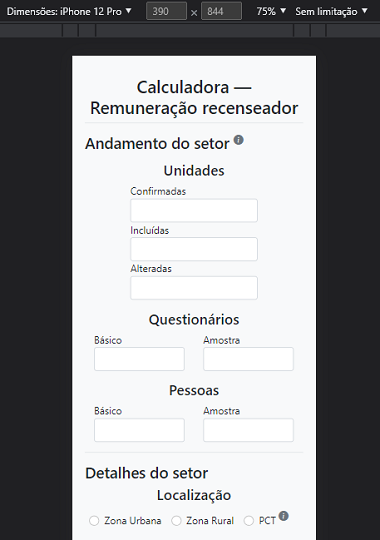
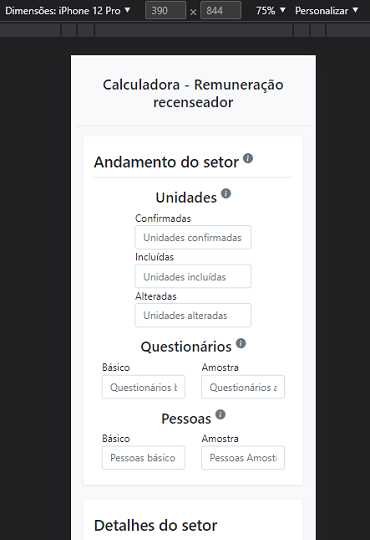
Muda um pouco o visual

diff --git a/index.html b/index.html
@@ -18,142 +18,183 @@
           name="og:description"/>
 </head>
 <body class="pt-3 px-2 d-flex flex-column min-vh-100 bg-light">
-    <main class="container my-3">
-        <h1 class="border-bottom pb-2 text-center">Calculadora — Remuneração recenseador</h1>
-        <h2 class="mt-3">
-            Andamento do setor
-            <sup class="text-muted fs-6" data-bs-placement="right" data-bs-toggle="tooltip"
-                                                 title="Acesse a aba Relatórios > Andamento do Setor em seu DMC.">
-            <i class="bi bi-info-circle-fill"></i>
-        </sup></h2>
+    <header class="d-flex justify-content-center py-3 mb-3 border-bottom">
+        <h1 class="fs-3 text-center">Calculadora - Remuneração recenseador</h1>
+    </header>
+    <main class="container mb-3">
         <form id="calculator" novalidate>
-            <h3 class="mt-3 text-center">Unidades</h3>
-            <div class="d-sm-flex justify-content-around col-7 mx-auto col-sm-auto col-lg-9">
-                <div class="col-sm-3">
-                    <label for="units-confirmed">Confirmadas</label>
-                    <input type="number" class="form-control" id="units-confirmed" min="0" required>
-                    <div class="invalid-feedback text-center">Este campo é obrigatório!</div>
-                </div>
-                <div class="col-sm-3">
-                    <label for="units-included">Incluídas</label>
-                    <input type="number" class="form-control" id="units-included" min="0" required>
-                    <div class="invalid-feedback text-center">Este campo é obrigatório!</div>
-                </div>
-                <div class="col-sm-3">
-                    <label for="units-changed">Alteradas</label>
-                    <input type="number" class="form-control" id="units-changed" min="0" required>
-                    <div class="invalid-feedback text-center">Este campo é obrigatório!</div>
-                </div>
-            </div>
-            <h3 class="mt-3 text-center">Questionários</h3>
-            <div class="d-flex justify-content-around col-12 col-sm-10 col-md-8 col-lg-6 mx-auto">
-                <div class="col-5">
-                    <label for="quiz-basic">Básico</label>
-                    <input type="number" class="form-control" id="quiz-basic" min="0" required>
-                    <div class="invalid-feedback text-center">Este campo é obrigatório!</div>
-                </div>
-                <div class="col-5">
-                    <label for="quiz-sample">Amostra</label>
-                    <input type="number" class="form-control" id="quiz-sample" min="0" required>
-                    <div class="invalid-feedback text-center">Este campo é obrigatório!</div>
-                </div>
-            </div>
-            <h3 class="mt-3 text-center">Pessoas</h3>
-            <div class="d-flex justify-content-around col-12 col-sm-10 col-md-8 col-lg-6 mx-auto">
-                <div class="col-5">
-                    <label for="people-basic">Básico</label>
-                    <input type="number" class="form-control" id="people-basic" min="0" required>
-                    <div class="invalid-feedback text-center">Este campo é obrigatório!</div>
-                </div>
-                <div class="col-5">
-                    <label for="people-sample">Amostra</label>
-                    <input type="number" class="form-control" id="people-sample" min="0" required>
-                    <div class="invalid-feedback text-center">Este campo é obrigatório!</div>
-                </div>
-            </div>
-            <h2 class="mt-3 border-top pt-3">Detalhes do setor</h2>
-            <h3 class="text-center mb-3">Localização</h3>
-            <div class="d-flex justify-content-center">
-                <div class="form-check form-check-inline">
-                    <input type="radio" name="locale" id="locale-urban" class="form-check-input" value="urban" required>
-                    <label for="locale-urban" class="form-check-label">Zona Urbana</label>
-                </div>
-                <div class="form-check form-check-inline">
-                    <input type="radio" name="locale" id="locale-rural" class="form-check-input" value="rural" required>
-                    <label for="locale-rural" class="form-check-label">Zona Rural</label>
-                </div>
-                <div class="form-check form-check-inline">
-                    <input type="radio" name="locale" id="locale-pct" class="form-check-input" value="rural" required>
-                    <label for="locale-pct" class="form-check-label">
-                        PCT
-                        <sup class="text-muted fs-6" data-bs-placement="right" data-bs-toggle="tooltip"
-                             title="Povos e comunidades tradicionais (Indígenas e Quilombolas).">
+                <div class="shadow-sm rounded bg-white px-3 py-4">
+                    <div class="title pb-1 border-bottom">
+                        <h2>
+                            Andamento do setor
+                            <sup class="text-muted fs-6" data-bs-placement="right" data-bs-toggle="tooltip"
+                                 title='Acesse a aba "Relatórios" -> "Andamento do setor" em seu DMC.'>
+                                <i class="bi bi-info-circle-fill"></i>
+                            </sup>
+                        </h2>
+                    </div>
+                    <div class="content">
+                        <h3 class="mt-3 text-center">
+                            Unidades
+                            <sup class="text-muted fs-6" data-bs-placement="right" data-bs-toggle="tooltip"
+                                 title="Andamento do setor -> 3 Resumo Unidades">
                             <i class="bi bi-info-circle-fill"></i>
-                        </sup>
-                    </label>
+                            </sup>
+                        </h3>
+                        <div class="d-sm-flex justify-content-around col-7 mx-auto col-sm-auto col-lg-9">
+                            <div class="col-sm-3">
+                                <label for="units-confirmed">Confirmadas</label>
+                                <input type="number" class="form-control" id="units-confirmed" min="0" required
+                                       placeholder="Unidades confirmadas">
+                                <div class="invalid-feedback text-center">Este campo é obrigatório!</div>
+                            </div>
+                            <div class="col-sm-3">
+                                <label for="units-included">Incluídas</label>
+                                <input type="number" class="form-control" id="units-included" min="0" required
+                                       placeholder="Unidades incluídas">
+                                <div class="invalid-feedback text-center">Este campo é obrigatório!</div>
+                            </div>
+                            <div class="col-sm-3">
+                                <label for="units-changed">Alteradas</label>
+                                <input type="number" class="form-control" id="units-changed" min="0" required
+                                       placeholder="Unidades alteradas">
+                                <div class="invalid-feedback text-center">Este campo é obrigatório!</div>
+                            </div>
+                        </div>
+                        <h3 class="mt-3 text-center">
+                            Questionários
+                            <sup class="text-muted fs-6" data-bs-placement="right" data-bs-toggle="tooltip"
+                                 title='Andamento do setor -> 8 Total Questionários'>
+                                <i class="bi bi-info-circle-fill"></i>
+                            </sup>
+                        </h3>
+                        <div class="d-flex justify-content-around col-12 col-sm-10 col-md-8 col-lg-6 mx-auto">
+                            <div class="col-5">
+                                <label for="quiz-basic">Básico</label>
+                                <input type="number" class="form-control" id="quiz-basic" min="0" required
+                                       placeholder="Questionários básicos">
+                                <div class="invalid-feedback text-center">Este campo é obrigatório!</div>
+                            </div>
+                            <div class="col-5">
+                                <label for="quiz-sample">Amostra</label>
+                                <input type="number" class="form-control" id="quiz-sample" min="0" required
+                                       placeholder="Questionários amostra">
+                                <div class="invalid-feedback text-center">Este campo é obrigatório!</div>
+                            </div>
+                        </div>
+                        <h3 class="mt-3 text-center">
+                            Pessoas
+                            <sup class="text-muted fs-6" data-bs-placement="right" data-bs-toggle="tooltip"
+                                 title='Andamento do setor -> 9 Resumo De Pessoas Recenseadas'>
+                                <i class="bi bi-info-circle-fill"></i>
+                            </sup>
+                        </h3>
+                        <div class="d-flex justify-content-around col-12 col-sm-10 col-md-8 col-lg-6 mx-auto">
+                            <div class="col-5">
+                                <label for="people-basic">Básico</label>
+                                <input type="number" class="form-control" id="people-basic" min="0" required
+                                       placeholder="Pessoas básico">
+                                <div class="invalid-feedback text-center">Este campo é obrigatório!</div>
+                            </div>
+                            <div class="col-5">
+                                <label for="people-sample">Amostra</label>
+                                <input type="number" class="form-control" id="people-sample" min="0" required
+                                       placeholder="Pessoas Amostra">
+                                <div class="invalid-feedback text-center">Este campo é obrigatório!</div>
+                            </div>
+                        </div>
+                    </div>
                 </div>
-            </div>
-            <h3 class="text-center my-3">Taxa do setor
-                <sup class="text-muted fs-6" data-bs-placement="right" data-bs-toggle="tooltip"
-                     title="Você consegue essa informação com o seu ACS ou ACM.">
-                <i class="bi bi-info-circle-fill"></i>
-                </sup>
-            </h3>
-            <div class="d-flex justify-content-center">
-                <div class="form-check form-check-inline">
-                    <input type="radio" name="taxe" id="taxe-1" class="form-check-input" value=1 required>
-                    <label for="taxe-1" class="form-check-label">1</label>
+                <div class="shadow-sm rounded bg-white px-3 py-4 mt-4">
+                    <div class="title pb-1 border-bottom">
+                        <h2>Detalhes do setor</h2>
+                    </div>
+                    <div class="content">
+                        <h3 class="text-center mt-3 mb-0">Localização</h3>
+                        <div class="d-flex justify-content-center mt-3">
+                            <div class="form-check form-check-inline">
+                                <input type="radio" name="locale" id="locale-urban" class="form-check-input" value="urban" required>
+                                <label for="locale-urban" class="form-check-label">Urbano</label>
+                            </div>
+                            <div class="form-check form-check-inline">
+                                <input type="radio" name="locale" id="locale-rural" class="form-check-input" value="rural" required>
+                                <label for="locale-rural" class="form-check-label">Rural ou PCT
+                                    <sup class="text-muted fs-6" data-bs-placement="right" data-bs-toggle="tooltip"
+                                         title="Povos e Comunidades Tradicionais (aldeias indígenas e comunidades quilombolas).">
+                                        <i class="bi bi-info-circle-fill"></i>
+                                    </sup>
+                                </label>
+                            </div>
+                        </div>
+                        <h3 class="text-center my-3">Taxa do setor
+                            <sup class="text-muted fs-6" data-bs-placement="right" data-bs-toggle="tooltip"
+                                 title="Você consegue essa informação com o seu ACS ou ACM.">
+                            <i class="bi bi-info-circle-fill"></i>
+                            </sup>
+                        </h3>
+                        <div class="d-flex justify-content-center">
+                            <div class="form-check form-check-inline">
+                                <input type="radio" name="taxe" id="taxe-1" class="form-check-input" value=1 required>
+                                <label for="taxe-1" class="form-check-label">1</label>
+                            </div>
+                            <div class="form-check form-check-inline">
+                                <input type="radio" name="taxe" id="taxe-2" class="form-check-input" value=2 required>
+                                <label for="taxe-2" class="form-check-label">2</label>
+                            </div>
+                            <div class="form-check form-check-inline">
+                                <input type="radio" name="taxe" id="taxe-3" class="form-check-input" value=3 required>
+                                <label for="taxe-3" class="form-check-label">3</label>
+                            </div>
+                            <div class="form-check form-check-inline">
+                                <input type="radio" name="taxe" id="taxe-4" class="form-check-input" value=4 required>
+                                <label for="taxe-4" class="form-check-label">4</label>
+                            </div>
+                            <div class="form-check form-check-inline">
+                                <input type="radio" name="taxe" id="taxe-5" class="form-check-input" value=5 required>
+                                <label for="taxe-5" class="form-check-label">5</label>
+                            </div>
+                        </div>
+                        <div class="d-flex justify-content-center mt-3">
+                            <div class="form-check form-check-inline">
+                                <input type="radio" name="taxe" id="taxe-6" class="form-check-input" value=6 required>
+                                <label for="taxe-6" class="form-check-label">6</label>
+                            </div>
+                            <div class="form-check form-check-inline">
+                                <input type="radio" name="taxe" id="taxe-7" class="form-check-input" value=7 required>
+                                <label for="taxe-7" class="form-check-label">7</label>
+                            </div>
+                            <div class="form-check form-check-inline">
+                                <input type="radio" name="taxe" id="taxe-8" class="form-check-input" value=8 required>
+                                <label for="taxe-8" class="form-check-label">8</label>
+                            </div>
+                            <div class="form-check form-check-inline">
+                                <input type="radio" name="taxe" id="taxe-9" class="form-check-input" value=9 required>
+                                <label for="taxe-9" class="form-check-label">9</label>
+                            </div>
+                            <div class="form-check form-check-inline">
+                                <input type="radio" name="taxe" id="taxe-10" class="form-check-input" value=10 required>
+                                <label for="taxe-10" class="form-check-label">10</label>
+                            </div>
+                            <div class="form-check form-check-inline">
+                                <input type="radio" name="taxe" id="taxe-11" class="form-check-input" value=11 required>
+                                <label for="taxe-11" class="form-check-label">11</label>
+                            </div>
+                        </div>
+                    </div>
                 </div>
-                <div class="form-check form-check-inline">
-                    <input type="radio" name="taxe" id="taxe-2" class="form-check-input" value=2 required>
-                    <label for="taxe-2" class="form-check-label">2</label>
+                <div class="shadow-sm rounded bg-white px-3 py-4 mt-4">
+                    <div class="title pb-1 border-bottom">
+                        <h2>Benefícios</h2>
+                    </div>
+                    <div class="content">
+                        <h3 class="text-center my-3">Salário família</h3>
+                        <div class="col-5 mx-auto">
+                            <label for="number-sons">Filhos até 14 anos</label>
+                            <input type="number" class="form-control" id="number-sons" min="0" value="0" required>
+                        </div>
+                    </div>
                 </div>
-                <div class="form-check form-check-inline">
-                    <input type="radio" name="taxe" id="taxe-3" class="form-check-input" value=3 required>
-                    <label for="taxe-3" class="form-check-label">3</label>
-                </div>
-                <div class="form-check form-check-inline">
-                    <input type="radio" name="taxe" id="taxe-4" class="form-check-input" value=4 required>
-                    <label for="taxe-4" class="form-check-label">4</label>
-                </div>
-                <div class="form-check form-check-inline">
-                    <input type="radio" name="taxe" id="taxe-5" class="form-check-input" value=5 required>
-                    <label for="taxe-5" class="form-check-label">5</label>
-                </div>
-            </div>
-            <div class="d-flex justify-content-center mt-3">
-                <div class="form-check form-check-inline">
-                    <input type="radio" name="taxe" id="taxe-6" class="form-check-input" value=6 required>
-                    <label for="taxe-6" class="form-check-label">6</label>
-                </div>
-                <div class="form-check form-check-inline">
-                    <input type="radio" name="taxe" id="taxe-7" class="form-check-input" value=7 required>
-                    <label for="taxe-7" class="form-check-label">7</label>
-                </div>
-                <div class="form-check form-check-inline">
-                    <input type="radio" name="taxe" id="taxe-8" class="form-check-input" value=8 required>
-                    <label for="taxe-8" class="form-check-label">8</label>
-                </div>
-                <div class="form-check form-check-inline">
-                    <input type="radio" name="taxe" id="taxe-9" class="form-check-input" value=9 required>
-                    <label for="taxe-9" class="form-check-label">9</label>
-                </div>
-                <div class="form-check form-check-inline">
-                    <input type="radio" name="taxe" id="taxe-10" class="form-check-input" value=10 required>
-                    <label for="taxe-10" class="form-check-label">10</label>
-                </div>
-                <div class="form-check form-check-inline">
-                    <input type="radio" name="taxe" id="taxe-11" class="form-check-input" value=11 required>
-                    <label for="taxe-11" class="form-check-label">11</label>
-                </div>
-            </div>
-            <h2 class="mt-3 border-top pt-3">Benefícios</h2>
-            <h3 class="text-center my-3">Salário família</h3>
-            <div class="col-5 mx-auto">
-                <label for="number-sons">Nº de filhos até 14 anos</label>
-                <input type="number" class="form-control" id="number-sons" min="0" value="0" required>
-            </div>
-            <div class="row border-top mt-4 pt-4 d-none" id="income">
+            <div class="row mt-4 pt-4 d-none" id="income">
                 <h3 class="mb-3">A receber</h3>
                 <ul class="list-group mb-3">
                     <li class="list-group-item d-flex justify-content-between lh-sm">
@@ -209,8 +250,25 @@
             </div>
         </form>
     </main>
-    <footer class="container-fluid border-top text-center p-3 fw-light mt-auto">
-        &copy; 2022 - Leone Oliveira
+    <footer class="container-fluid border-top text-center pt-3 fw-light mt-auto">
+        <div>
+            &copy; 2022 - Leone Oliveira
+        </div>
+        <ul class="col-6 col-md-4 col-xl-3 mx-auto d-flex list-unstyled justify-content-around mt-3">
+            <li>
+                <a class="text-reset text-decoration-none" href="https://github.com/leonetecbr/calculadora-recenseador-ibge">
+                    <i class="bi bi-github"></i>
+                </a>
+            </li>
+            <li data-bs-placement="right" data-bs-toggle="popover" title="Contribuir" data-bs-content="Esta é uma calculadora gratuita e sem anúncios, caso queira contribuir com o projeto pode mandar qualquer valor para a seguinte chave PIX: pix@leone.tec.br">
+                <i class="bi bi-coin"></i>
+            </li>
+            <li>
+                <a class="text-reset text-decoration-none" href="https://www.linkedin.com/in/leonetecbr/">
+                    <i class="bi bi-linkedin"></i>
+                </a>
+            </li>
+        </ul>
     </footer>
     <script src="/apps/ibge/js/jquery.min.js"></script>
     <script src="/apps/ibge/js/bootstrap.bundle.min.js"></script>

diff --git a/js/app.min.js b/js/app.min.js
@@ -1,1 +1,1 @@
-const tooltipTriggerList=[].slice.call(document.querySelectorAll('[data-bs-toggle="tooltip"]'));tooltipTriggerList.map(function(a){return new bootstrap.Tooltip(a)});let taxes={1:{urban:{unit:.51,basic:{people:.9,quiz:1.21},sample:{people:1.51,quiz:1.41}},rural:{unit:.56,basic:{people:1.01,quiz:1.34},sample:{people:1.67,quiz:1.57}}},2:{urban:{unit:.56,basic:{people:1.01,quiz:1.34},sample:{people:1.67,quiz:1.57}},rural:{unit:.62,basic:{people:1.1,quiz:1.46},sample:{people:1.83,quiz:1.7}}},3:{urban:{unit:.62,basic:{people:1.1,quiz:1.46},sample:{people:1.83,quiz:1.7}},rural:{unit:.69,basic:{people:1.21,quiz:1.61},sample:{people:2.01,quiz:1.89}}},4:{urban:{unit:.69,basic:{people:1.21,quiz:1.61},sample:{people:2.01,quiz:1.89}},rural:{unit:.75,basic:{people:1.33,quiz:1.76},sample:{people:2.21,quiz:2.07}}},5:{urban:{unit:.75,basic:{people:1.33,quiz:1.76},sample:{people:2.21,quiz:2.07}},rural:{unit:.82,basic:{people:1.46,quiz:1.94},sample:{people:2.45,quiz:2.28}}},6:{urban:{unit:.82,basic:{people:1.46,quiz:1.94},sample:{people:2.45,quiz:2.28}},rural:{unit:.9,basic:{people:1.6,quiz:2.14},sample:{people:2.68,quiz:2.51}}},7:{urban:{unit:.9,basic:{people:1.6,quiz:2.14},sample:{people:2.68,quiz:2.51}},rural:{unit:1,basic:{people:1.76,quiz:2.36},sample:{people:2.94,quiz:2.76}}},8:{urban:{unit:1,basic:{people:1.94,quiz:2.6},sample:{people:3.25,quiz:3.03}},rural:{unit:1.11,basic:{people:2.01,quiz:2.67},sample:{people:3.32,quiz:3.1}}},9:{urban:{unit:1.19,basic:{people:2.33,quiz:3.12},sample:{people:3.9,quiz:3.64}},rural:{unit:1.33,basic:{people:2.42,quiz:3.2},sample:{people:3.98,quiz:3.72}}},10:{urban:{unit:1.31,basic:{people:2.56,quiz:3.43},sample:{people:4.29,quiz:4}},rural:{unit:1.46,basic:{people:2.66,quiz:3.52},sample:{people:4.38,quiz:4.09}}},11:{urban:{unit:1.44,basic:{people:2.82,quiz:3.77},sample:{people:4.72,quiz:4.4}},rural:{unit:1.61,basic:{people:2.93,quiz:3.87},sample:{people:4.82,quiz:4.5}}}};function currency(a){return a.toLocaleString("pt-br",{style:"currency",currency:"BRL"})}function calcINSS(b){let a={taxe:14,discount:0};return b<=1212?a.taxe=7.5:b<=2427.35?a.taxe=9:b<=3641.03?a.taxe=12:b<=7087.22?a.taxe=14:a.discount=992.2108000000001,0===a.discount&&(a.discount-=b/100*a.taxe),a}function calcIRRF(b){let a={taxe:0,discount:0};return b<=1903.98?a.taxe=0:b<=2826.65?(a.taxe=7.5,a.discount=142.8):b<=3751.05?(a.taxe=15,a.discount=354.8):b<=4664.68?(a.taxe=22.5,a.discount=636.13):(a.taxe=27.5,a.discount=869.36),a.discount-=b/100*a.taxe,a}$("#calculator").on("submit",function(j){if(j.preventDefault(),this.checkValidity()){let k=$("#number-sons").val(),h=0,a=0,d,e,c=$('input[name="taxe"]:checked').val(),b={},l=$('input[name="locale"]:checked').val(),i=parseInt($("#units-confirmed").val())+parseInt($("#units-changed").val());i+=parseInt($("#units-included").val());let f={basic:parseInt($("#quiz-basic").val()),sample:parseInt($("#quiz-sample").val())},g={basic:parseInt($("#people-basic").val()),sample:parseInt($("#people-sample").val())};c=taxes[c][l],b.units=i*c.unit,b.quiz=f.basic*c.basic.quiz+f.sample*c.sample.quiz,b.people=g.basic*c.basic.people+g.sample*c.sample.people,a+=b.units+b.quiz+b.people,$("#units").html(i),$("#quiz").html(f.basic+f.sample),$("#people").html(g.basic+g.sample),$("#units-value").html(currency(b.units)),$("#quiz-value").html(currency(b.quiz)),$("#people-value").html(currency(b.people)),a<=1655.98&&a>0?($("#quantity-sons").html(k),h=56.47*k):$("#family-salary").html("Sal\xe1rio fora da faixa contemplada!"),$("#family-salary-value").html(currency(h)),d=calcINSS(a),$("#percent-inss").html(d.taxe.toLocaleString("pt-br")),$("#inss-value").html(currency(d.discount)),a+=d.discount,e=calcIRRF(a),$("#percent-irrf").html(e.taxe.toLocaleString("pt-br")),$("#irrf-value").html(currency(e.discount)),a+=e.discount,a+=h,$("#income-value").html(currency(a)),$("#income").removeClass("d-none"),window.location.href="#income"}else j.stopPropagation();$(this).addClass("was-validated")})
+const tooltipTriggerList=[].slice.call(document.querySelectorAll('[data-bs-toggle="tooltip"]'));tooltipTriggerList.map(function(a){return new bootstrap.Tooltip(a)});const popoverTriggerList=[].slice.call(document.querySelectorAll('[data-bs-toggle="popover"]'));popoverTriggerList.map(function(a){return new bootstrap.Popover(a)});let taxes={1:{urban:{unit:.51,basic:{people:.9,quiz:1.21},sample:{people:1.51,quiz:1.41}},rural:{unit:.56,basic:{people:1.01,quiz:1.34},sample:{people:1.67,quiz:1.57}}},2:{urban:{unit:.56,basic:{people:1.01,quiz:1.34},sample:{people:1.67,quiz:1.57}},rural:{unit:.62,basic:{people:1.1,quiz:1.46},sample:{people:1.83,quiz:1.7}}},3:{urban:{unit:.62,basic:{people:1.1,quiz:1.46},sample:{people:1.83,quiz:1.7}},rural:{unit:.69,basic:{people:1.21,quiz:1.61},sample:{people:2.01,quiz:1.89}}},4:{urban:{unit:.69,basic:{people:1.21,quiz:1.61},sample:{people:2.01,quiz:1.89}},rural:{unit:.75,basic:{people:1.33,quiz:1.76},sample:{people:2.21,quiz:2.07}}},5:{urban:{unit:.75,basic:{people:1.33,quiz:1.76},sample:{people:2.21,quiz:2.07}},rural:{unit:.82,basic:{people:1.46,quiz:1.94},sample:{people:2.45,quiz:2.28}}},6:{urban:{unit:.82,basic:{people:1.46,quiz:1.94},sample:{people:2.45,quiz:2.28}},rural:{unit:.9,basic:{people:1.6,quiz:2.14},sample:{people:2.68,quiz:2.51}}},7:{urban:{unit:.9,basic:{people:1.6,quiz:2.14},sample:{people:2.68,quiz:2.51}},rural:{unit:1,basic:{people:1.76,quiz:2.36},sample:{people:2.94,quiz:2.76}}},8:{urban:{unit:1,basic:{people:1.94,quiz:2.6},sample:{people:3.25,quiz:3.03}},rural:{unit:1.11,basic:{people:2.01,quiz:2.67},sample:{people:3.32,quiz:3.1}}},9:{urban:{unit:1.19,basic:{people:2.33,quiz:3.12},sample:{people:3.9,quiz:3.64}},rural:{unit:1.33,basic:{people:2.42,quiz:3.2},sample:{people:3.98,quiz:3.72}}},10:{urban:{unit:1.31,basic:{people:2.56,quiz:3.43},sample:{people:4.29,quiz:4}},rural:{unit:1.46,basic:{people:2.66,quiz:3.52},sample:{people:4.38,quiz:4.09}}},11:{urban:{unit:1.44,basic:{people:2.82,quiz:3.77},sample:{people:4.72,quiz:4.4}},rural:{unit:1.61,basic:{people:2.93,quiz:3.87},sample:{people:4.82,quiz:4.5}}}};function currency(a){return a.toLocaleString("pt-br",{style:"currency",currency:"BRL"})}function calcINSS(b){let a={taxe:14,discount:0};return b<=1212?a.taxe=7.5:b<=2427.35?a.taxe=9:b<=3641.03?a.taxe=12:b<=7087.22?a.taxe=14:a.discount=992.2108000000001,0===a.discount&&(a.discount-=b/100*a.taxe),a}function calcIRRF(b){let a={taxe:0,discount:0};return b<=1903.98?a.taxe=0:b<=2826.65?(a.taxe=7.5,a.discount=142.8):b<=3751.05?(a.taxe=15,a.discount=354.8):b<=4664.68?(a.taxe=22.5,a.discount=636.13):(a.taxe=27.5,a.discount=869.36),a.discount-=b/100*a.taxe,a}$("#calculator").on("submit",function(j){if(j.preventDefault(),this.checkValidity()){let k=$("#number-sons").val(),h=0,a=0,d,e,c=$('input[name="taxe"]:checked').val(),b={},l=$('input[name="locale"]:checked').val(),i=parseInt($("#units-confirmed").val())+parseInt($("#units-changed").val());i+=parseInt($("#units-included").val());let f={basic:parseInt($("#quiz-basic").val()),sample:parseInt($("#quiz-sample").val())},g={basic:parseInt($("#people-basic").val()),sample:parseInt($("#people-sample").val())};c=taxes[c][l],b.units=i*c.unit,b.quiz=f.basic*c.basic.quiz+f.sample*c.sample.quiz,b.people=g.basic*c.basic.people+g.sample*c.sample.people,a+=b.units+b.quiz+b.people,$("#units").html(i),$("#quiz").html(f.basic+f.sample),$("#people").html(g.basic+g.sample),$("#units-value").html(currency(b.units)),$("#quiz-value").html(currency(b.quiz)),$("#people-value").html(currency(b.people)),a<=1655.98&&a>0?($("#quantity-sons").html(k),h=56.47*k):$("#family-salary").html("Sal\xe1rio fora da faixa contemplada!"),$("#family-salary-value").html(currency(h)),d=calcINSS(a),$("#percent-inss").html(d.taxe.toLocaleString("pt-br")),$("#inss-value").html(currency(d.discount)),a+=d.discount,e=calcIRRF(a),$("#percent-irrf").html(e.taxe.toLocaleString("pt-br")),$("#irrf-value").html(currency(e.discount)),a+=e.discount,a+=h,$("#income-value").html(currency(a)),$("#income").removeClass("d-none"),window.location.href="#income"}else j.stopPropagation();$(this).addClass("was-validated")})

diff --git a/js/app.js b/js/app.js
@@ -3,6 +3,11 @@ tooltipTriggerList.map(function (tooltipTriggerEl) {
     return new bootstrap.Tooltip(tooltipTriggerEl)
 })
 
+const popoverTriggerList = [].slice.call(document.querySelectorAll('[data-bs-toggle="popover"]'))
+popoverTriggerList.map(function (popoverTriggerEl) {
+    return new bootstrap.Popover(popoverTriggerEl)
+})
+
 let taxes = {
     1: {
         urban: {
